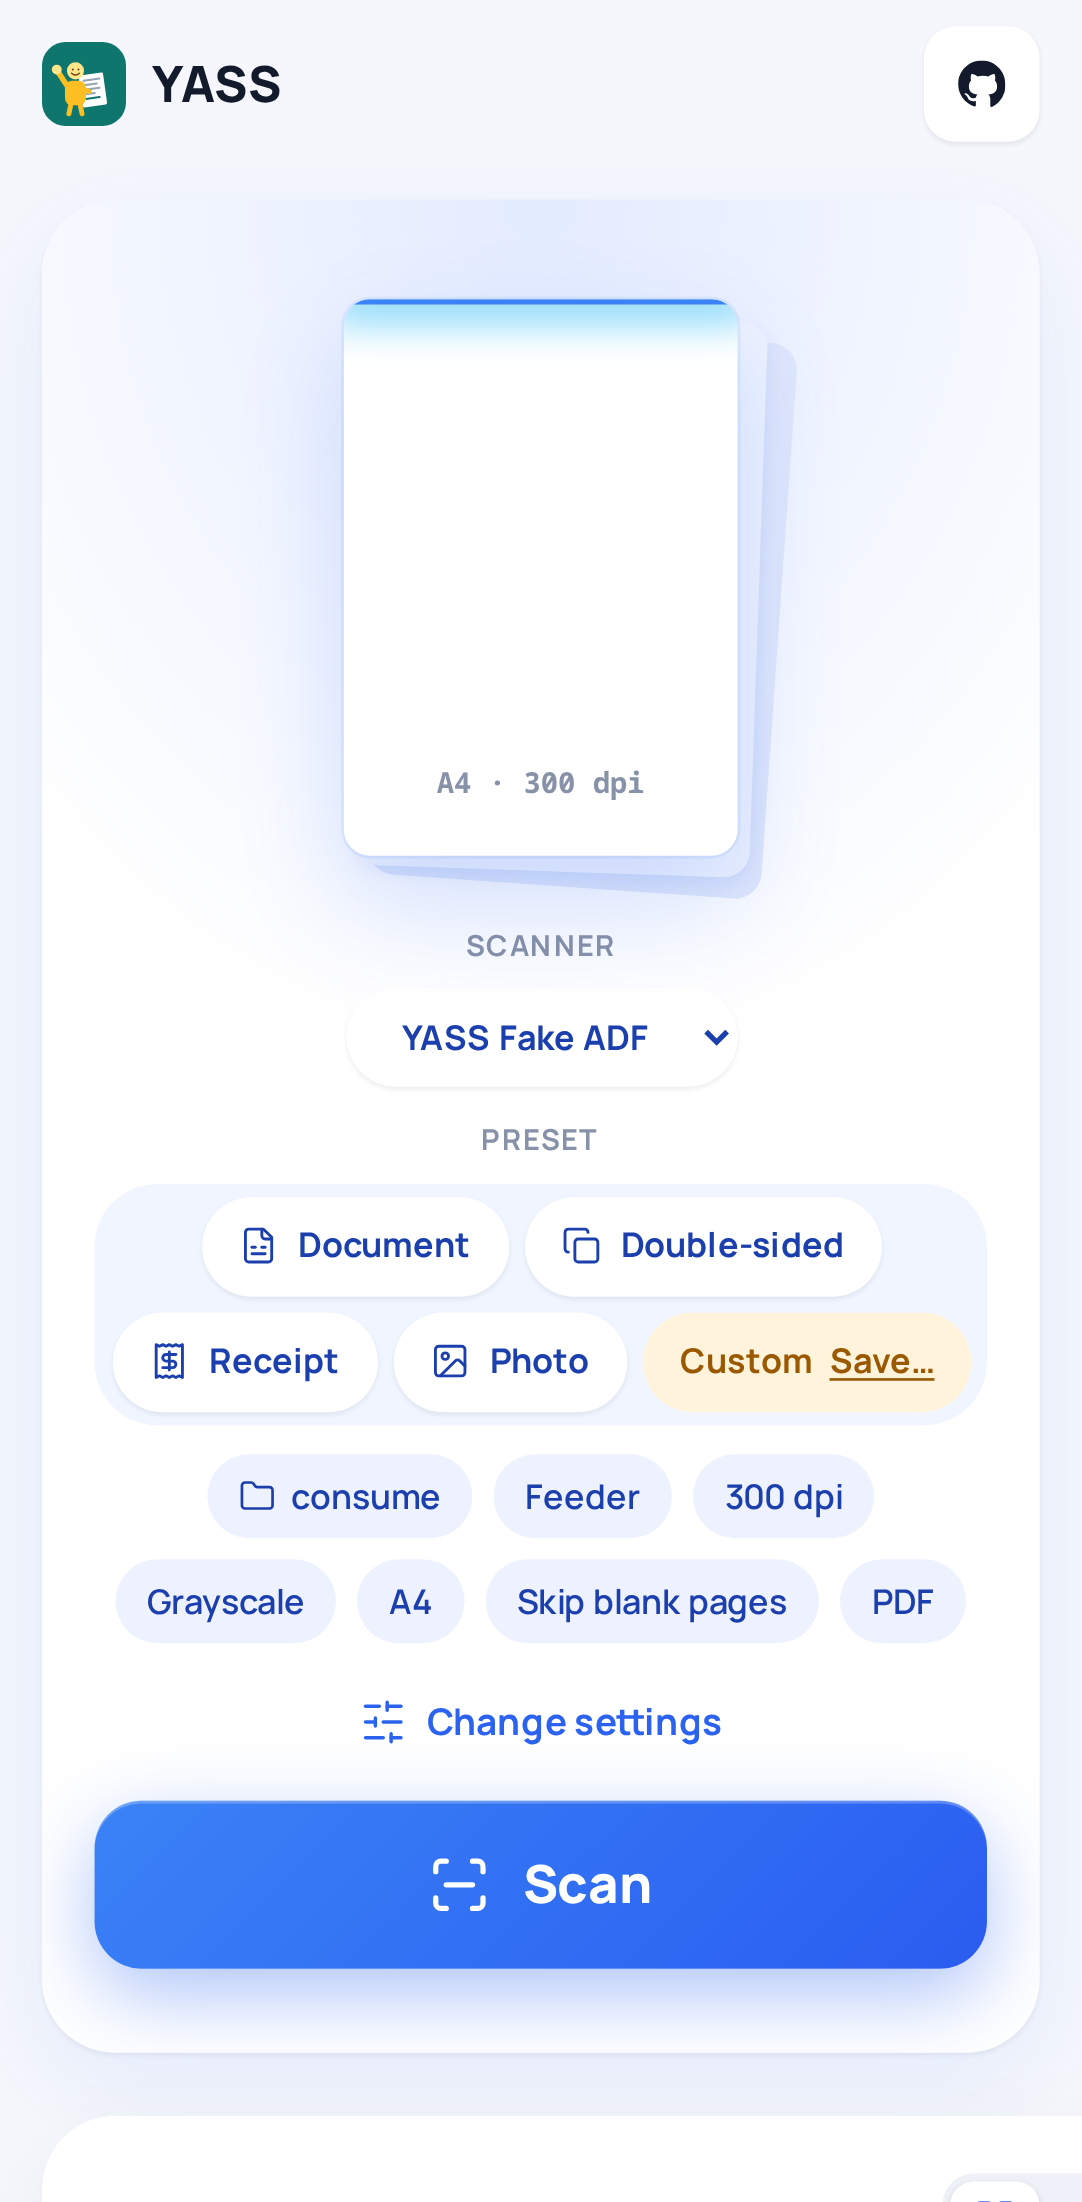
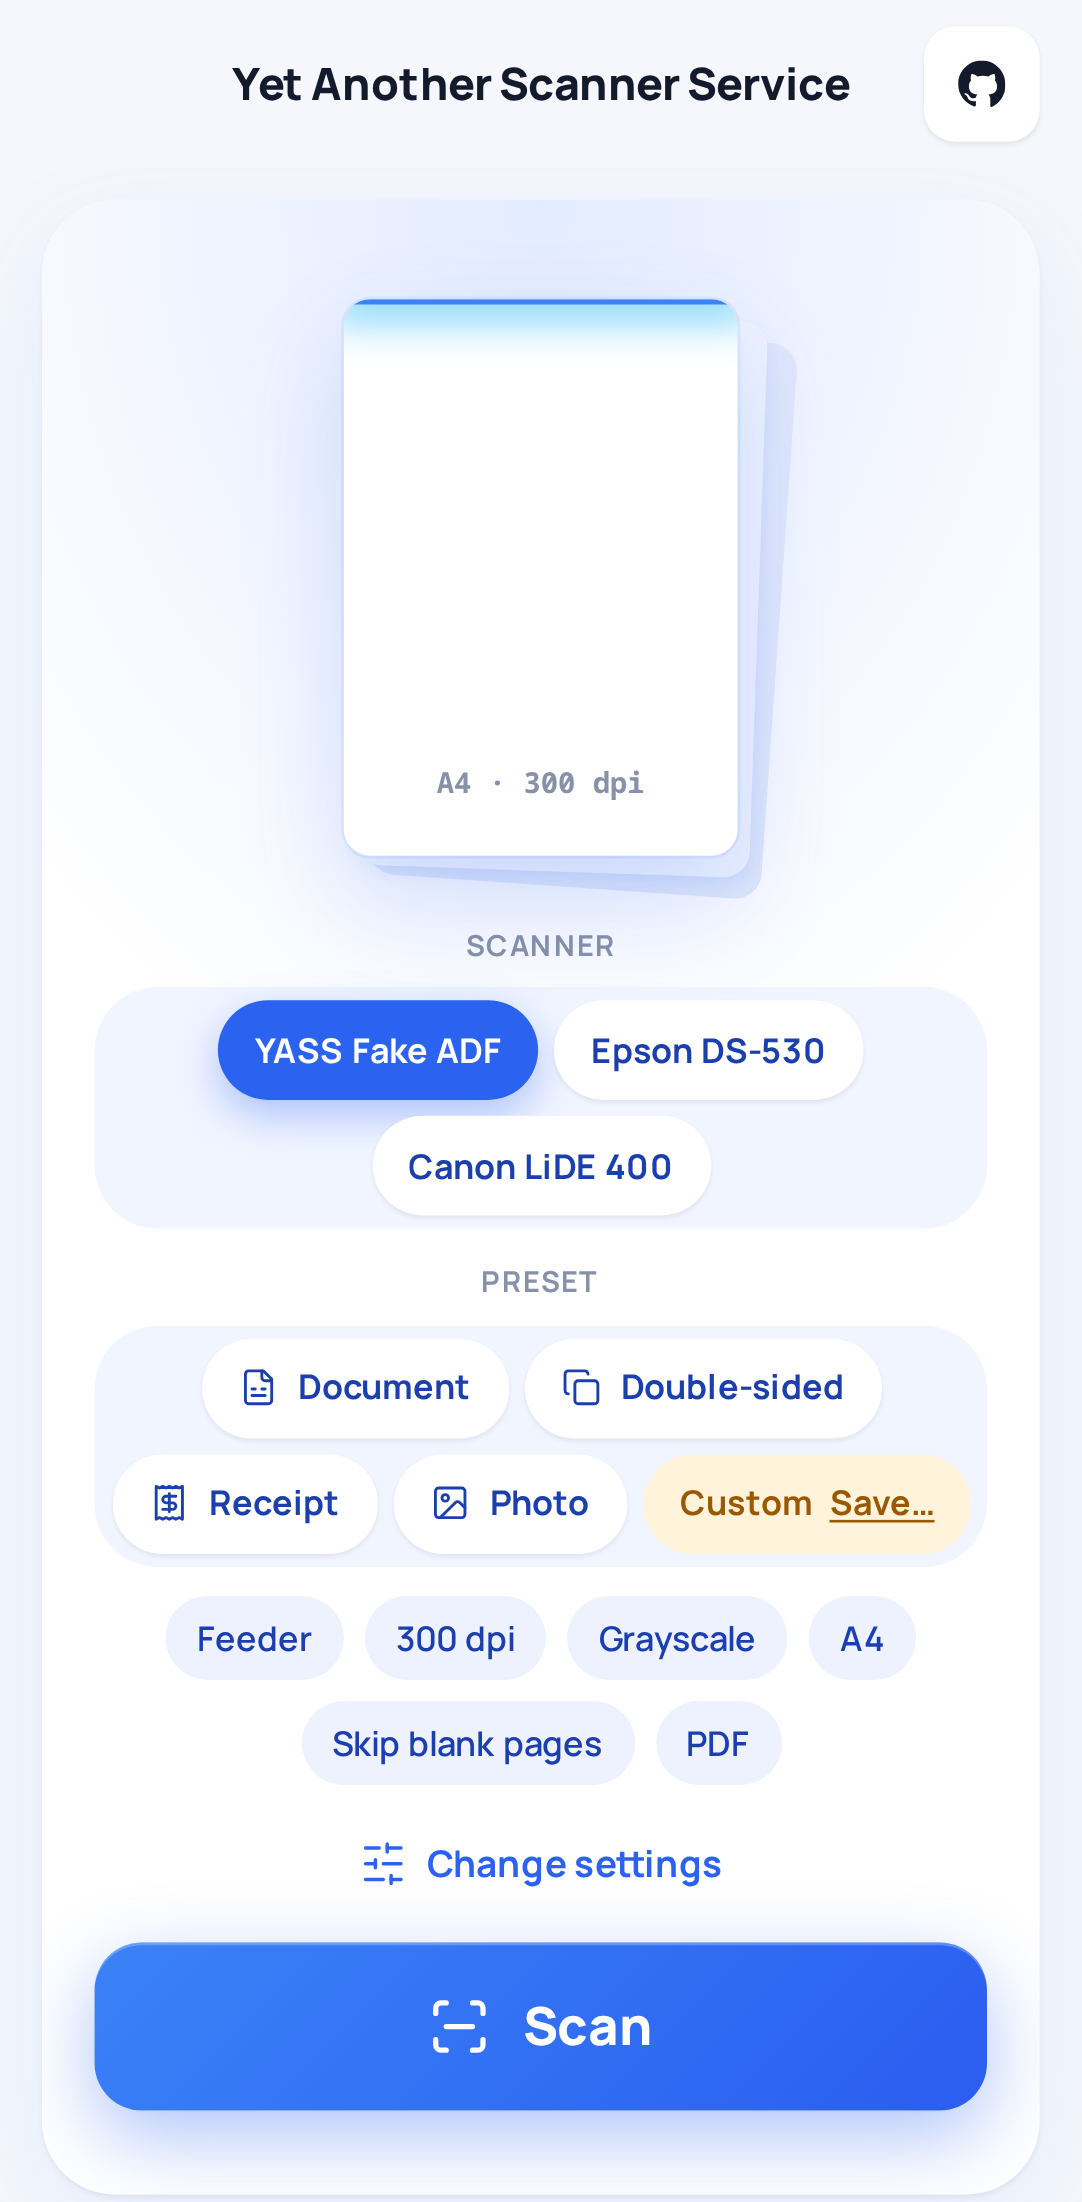
docs: refresh the screenshots without the Export button
The screenshot script downloads the finished scan instead of exporting
it, with the save dialog stubbed out so headless Chromium takes the
plain-download path a phone would.

diff --git a/web/scripts/screenshots.ts b/web/scripts/screenshots.ts
@@ -92,14 +92,24 @@ async function main() {
 			colorScheme: 'light',
 			reducedMotion: 'reduce'
 		});
+		// Headless Chromium offers the save dialog even on 127.0.0.1, and a native dialog
+		// cannot be driven from here: without the API the button is a plain download,
+		// which is also what a real phone gets.
+		await phone.addInitScript(() => {
+			Object.defineProperty(window, 'showSaveFilePicker', { value: undefined });
+		});
 		const page = await phone.newPage();
 
 		// One finished, named scan so the home screen has a past scan to list.
 		await scanToReview(page);
 		await page.getByTestId('name-input').fill('Insurance letter');
 		await page.getByTestId('name-input').press('Enter');
-		await page.getByTestId('save-button').click();
-		await page.getByTestId('saved-message').waitFor({ timeout: 20_000 });
+		// Downloading it finishes the scan, which is what the list shows as its status.
+		await page.getByTestId('download-button').click();
+		await page
+			.getByTestId('session-state')
+			.filter({ hasText: 'Downloaded' })
+			.waitFor({ timeout: 20_000 });
 
 		await page.goto('/');
 		await page.getByTestId('session-list').waitFor();
